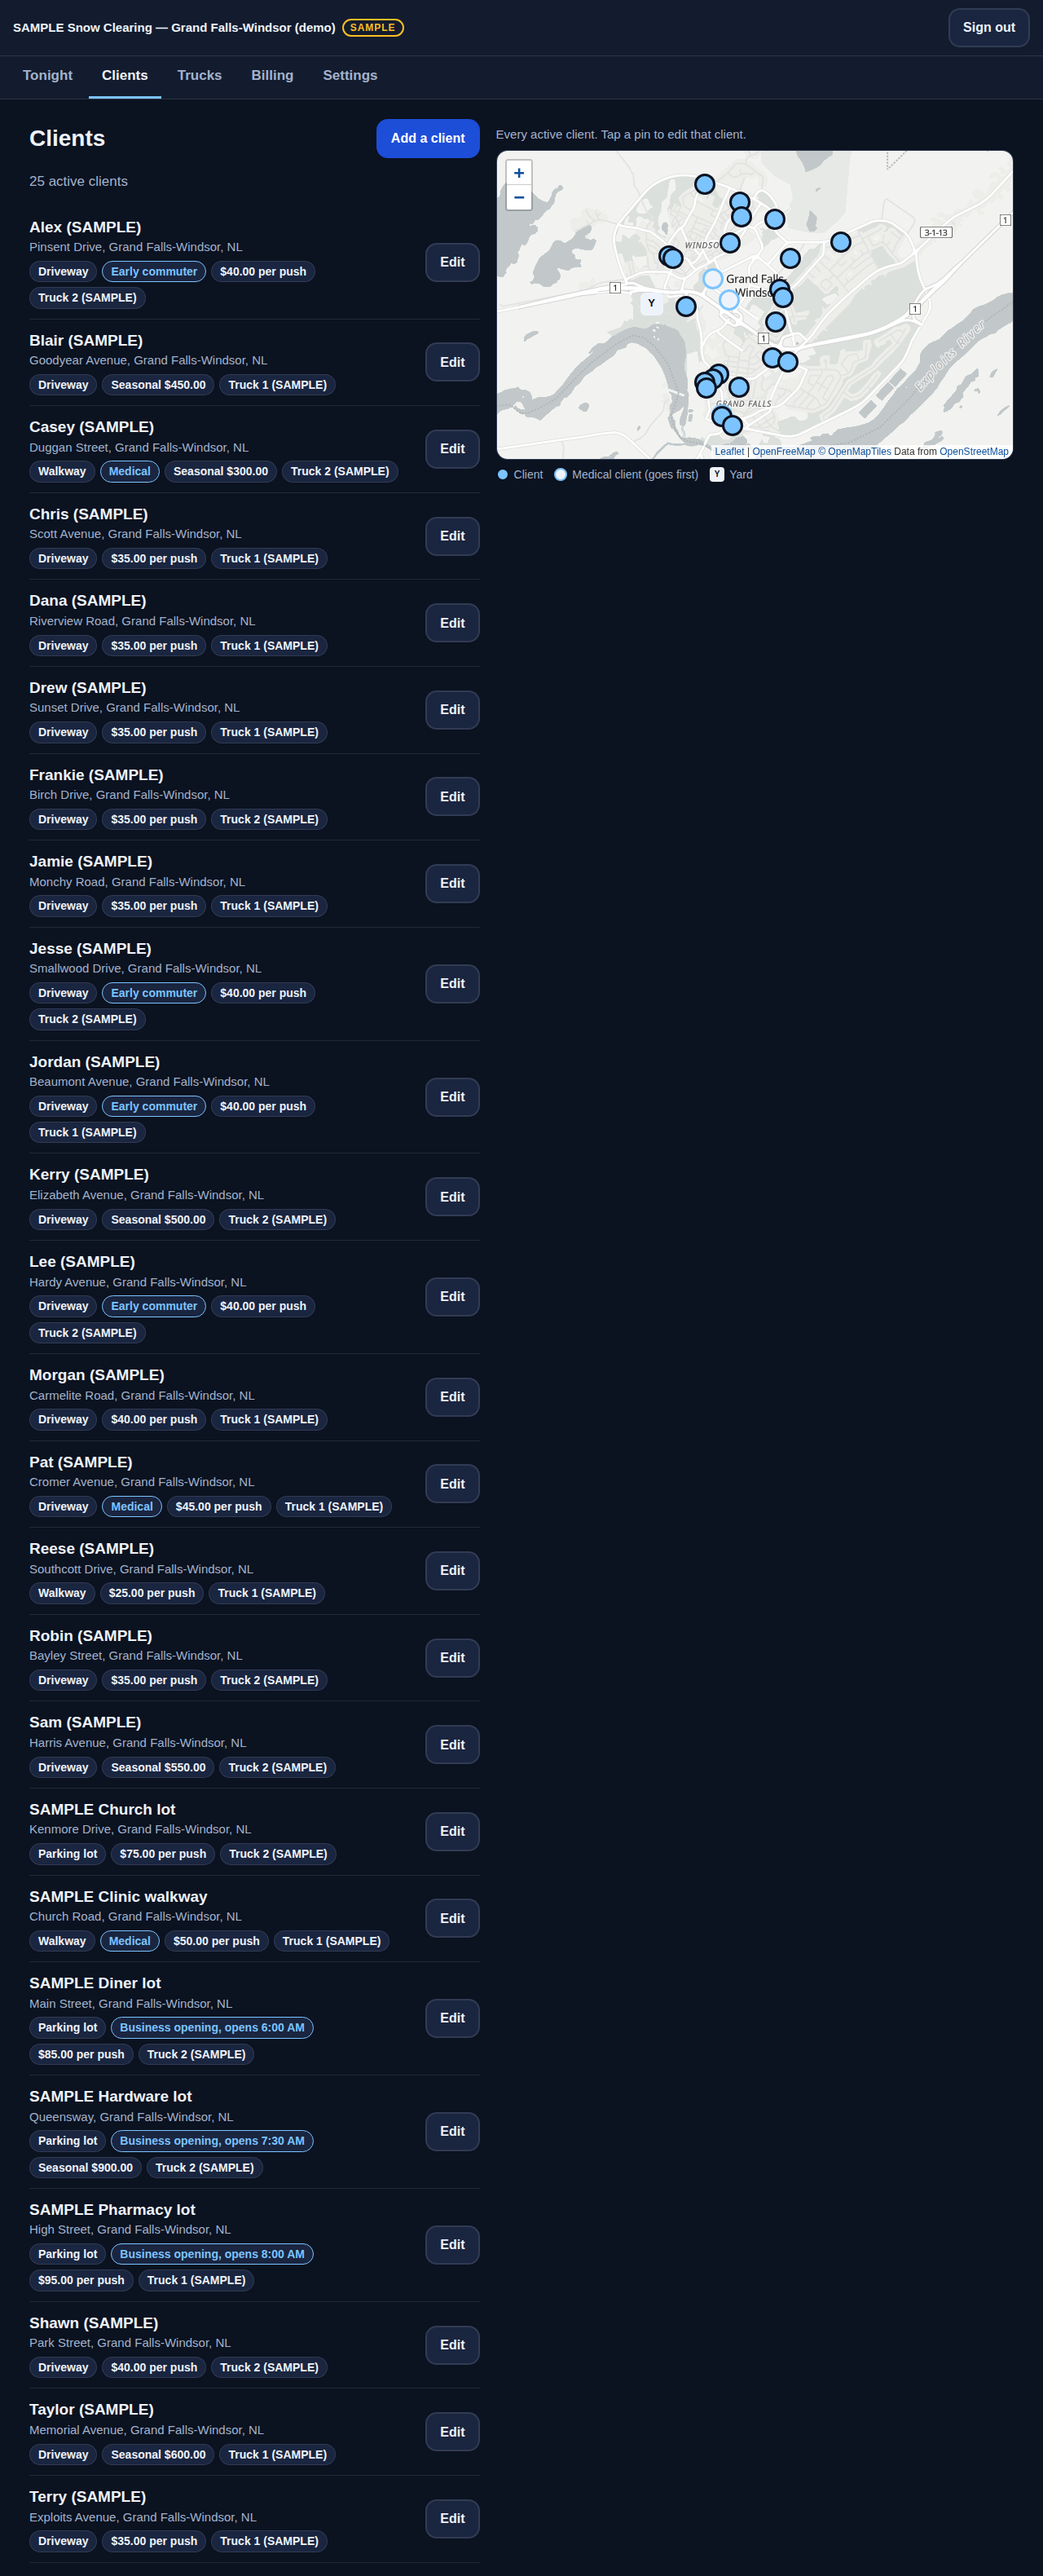
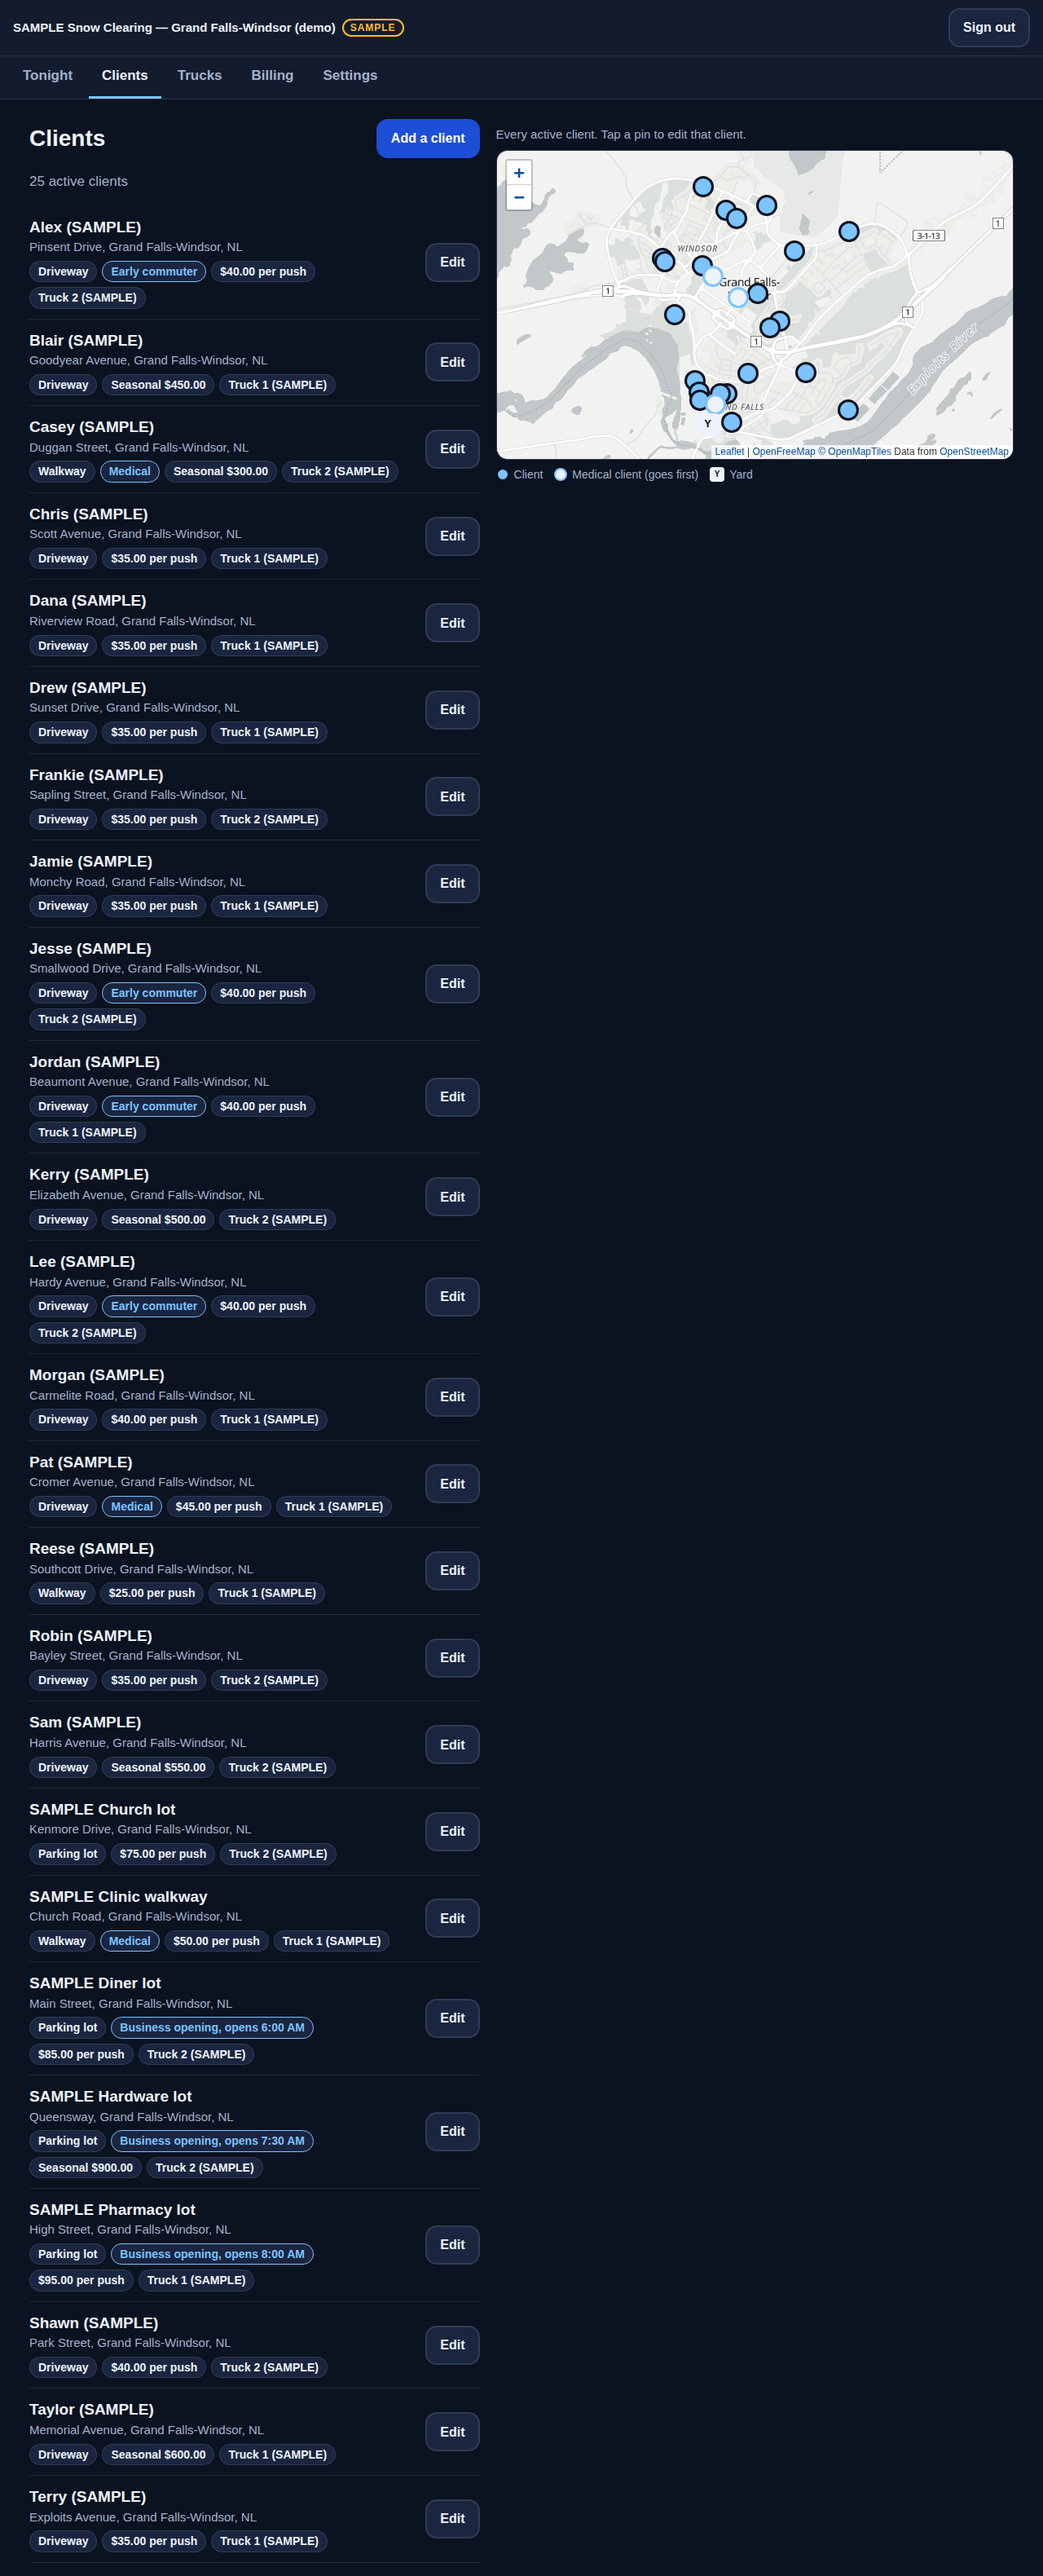
Sample data source fix recorded: QA at 2bb826c (Worker 28/68, Playwright 200/0/0, controls twoopt, tiers, billing and hst red), the e2273eb run's billing failure explained, README and build report numbers, docs/shots re-taken on the NRN points
Claude-Session: https://claude.ai/code/session_01Qy5U74PafbQdGwU4kpE5Tu

diff --git a/docs/build-report.md b/docs/build-report.md
@@ -249,3 +249,31 @@ page were looked at. The other twelve app controls and fifteen Worker controls t
 Pinned QA at `e86f0b1` (`rig qa --ref`, HEAD checked): Worker unit 28 / 0 / 0, API 68 / 0 / 0; Playwright 200 / 0 / 0 in all four projects;
 controls (n) attribution and (m) truck pins red after their unbroken passes. The other app and Worker controls cover code this round did not
 change and were last run at `31630e6`. Looked at: the owner Tonight and Clients maps at 1280 (chromium and webkit) and the driver page at 390.
+
+## SAMPLE street points: robots.txt fix (found by Home Care's lead via Onyx, lead only, `e2273eb` + `2bb826c`)
+
+- The first points came from one Overpass query to `overpass-api.de/api/interpreter`. That host's robots.txt reads `Disallow: /api/`,
+  so the fetch broke our robots.txt rule. The robots file is saved in `data/sources/robots/` and quoted in DECISIONS 68. The Overpass files are removed.
+- Checked before any download, and refused:
+  - Geofabrik: robots disallows the `.osm.pbf` and `.shp.zip` extracts.
+  - NRCan `ftp.maps.canada.ca`: `Disallow: /pub`.
+- The source that worked: Statistics Canada's National Road Network, NL edition 7.0 (Open Government Licence – Canada) from
+  `geo.statcan.gc.ca`, which has no robots.txt (404, so no restrictions under RFC 9309). The download sha256 is recorded in `data/sample-clients.json`.
+- The same 25 clients with the same SAMPLE names and streets, and still no house numbers. Each pin is the named street's vertex nearest its middle
+  (DECISIONS 69); the median move is 226 m. Birch Drive is not in the NRN, so Frankie is on Sapling Street. The yard moved to Mill Road's
+  NRN point, edited in place in migration 0002 (DECISIONS 70).
+- Pinned QA at `e2273eb` (`rig qa --ref`, HEAD checked): Worker unit 28 / 0 / 0, API 68 / 0 / 0; Playwright 196 passed, **4 failed**. The
+  failure was the same `billing.spec` assertion in all four projects: it expected Pat's stop before the Clinic's. Both are medical, so their
+  order is nearest the yard first, and the new yard is about 330 m from the Clinic and 2 km from Pat. The Worker was right; the spec had the
+  old map baked in. DECISIONS 71.
+- A sweep for the old coordinates then found three more copies: the generated `?mock=1` data (`app/public/mock-data.js`, regenerated),
+  `worker/tests/route.test.mjs` (the yard, two haversine points, and five crossing-check stops now written as offsets from the yard), and
+  the `docs/API.md` examples. The sweep matches whole numbers only. A first version matched the first five decimals of longer NRN values and
+  flagged the NRN extract itself. The sweep's own control is the control log, which still quotes 580 old numbers. That log and git history
+  before `e2273eb` are left as records (DECISIONS 71).
+
+Pinned QA at `2bb826c` (`rig qa --ref`, HEAD checked): Worker unit 28 / 0 / 0, API 68 / 0 / 0; Playwright 200 / 0 / 0 in all four projects.
+Controls re-run because their tests changed: Worker (twoopt, tiers), which read `route.test.mjs`, and app (billing, hst), which read
+`billing.spec.mjs`. All four went red after their unbroken passes. The other controls cover code this round did not change. Looked at:
+the owner Clients and Tonight maps at 1280 (the Clinic walkway now leads Truck 1, nearer the yard than Pat) and the driver page at 390.
+The demo was restarted detached on 7601 and all 36 docs screenshots were re-taken from it.

diff --git a/README.md b/README.md
@@ -57,6 +57,10 @@ cd app && npm run negative     # every app negative control, same rule (port 760
 
 ## Test numbers
 
+After the SAMPLE street points were rebuilt from Statistics Canada's National Road Network (the robots.txt fix), pinned QA at `2bb826c`:
+Worker unit 28 / 0 / 0, API 68 / 0 / 0; Playwright 200 / 0 / 0; the route controls (2-opt, tiers) and the billing controls (billing, HST)
+red after their unbroken passes. The first run, at `e2273eb`, failed one billing spec in all four projects because it had the old map baked in (DECISIONS 71).
+
 After the map tiles round (OpenFreeMap), pinned QA at `e86f0b1`: Worker unit 28 / 0 / 0, API 68 / 0 / 0; Playwright 200 / 0 / 0;
 the attribution control (the 14th app control) and the truck-pins control red after their unbroken passes.
 
